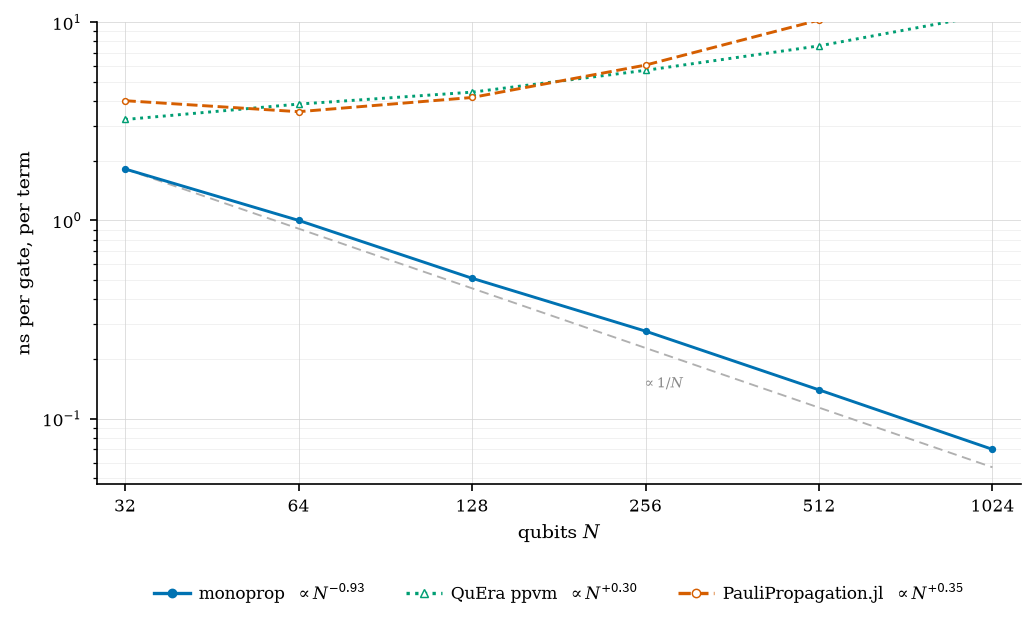
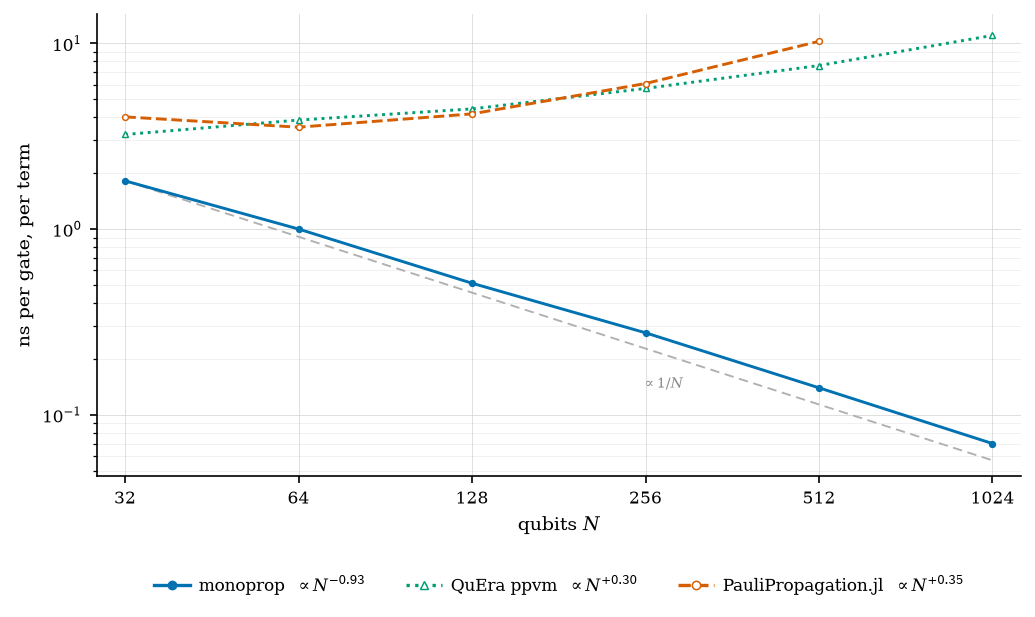
fix(paper_plots): 🐛 size the Fig. 6 y axis from the data
The fixed 10 ns ceiling cut off ppvm's N=1024 and PauliPropagation.jl's
N=512 points. The top is now 1.3x the highest point, capped at 20 ns.

Assisted-by: claude-code:claude-opus-5-5

diff --git a/paper_plots/make_inverse_scaling_figure.py b/paper_plots/make_inverse_scaling_figure.py
@@ -145,12 +145,12 @@ FIT_NMAX = 512
 # it, so no drawn point goes unaccounted for.
 FIT_ALL_POINTS = False
 
-# Hard ceiling on the y axis, in ns per gate per term. Letting the data set the top means
-# PauliPropagation.jl's post-cliff point at ~112 ns stretches the axis to 3.8 decades and
-# squashes the decade the 1/N actually lives in. Cropping here keeps that decade legible;
-# the reference engine's line simply runs off the top, and the caption carries the value it
-# reaches. Every point is still FITTED -- this crops the view, never the fit.
-Y_TOP_NS = 10.0
+# The y axis tops out Y_HEADROOM above the highest point, but never above Y_TOP_NS (ns per
+# gate per term): a post-cliff point such as PauliPropagation.jl's ~112 ns on AWS would
+# stretch the axis to 3.8 decades and squash the decade the 1/N lives in. A point above the
+# cap runs off the top and the caption carries its value. This crops the view, never the fit.
+Y_TOP_NS = 20.0
+Y_HEADROOM = 1.3
 
 
 # Colour carries the engine here (see the module docstring). Okabe-Ito, CVD-safe,
@@ -600,17 +600,17 @@ def fig6(lattice, outdir: Path, layout: str = "column", *, preview=False):
 
         _log_axis(ax, xs, "qubits $N$", "ns per gate, per term")
         ax.set_xlim(xs[0] / 1.12, xs[-1] * 1.12)
-        # Floor from the data, ceiling fixed at Y_TOP_NS (see the constant), so the
-        # reference engine's post-cliff point sits above the crop and its line runs off the
-        # top. The bottom pad is set by the legend, not by taste: it sits inside the
-        # lower-left corner in the column layout, and monoprop's tail descends into that
-        # corner, so the floor has to drop far enough to leave the entries clear of it.
+        # Ceiling from the data, capped at Y_TOP_NS (see the constant). The bottom pad is
+        # set by the legend, not by taste: it sits inside the lower-left corner in the column
+        # layout, and monoprop's tail descends into that corner, so the floor has to drop far
+        # enough to leave the entries clear of it.
         lo = min(min(ys) for _, ys, _ in fits.values())
         # Each extra legend entry in the column layout lowers the floor.
         pad = spec["bottom_pad"] ** (
             len(fits) / len(ORDER) if layout == "column" else 1
         )
-        ax.set_ylim(lo / pad, Y_TOP_NS)
+        hi = max(max(ys) for _, ys, _ in fits.values())
+        ax.set_ylim(lo / pad, min(hi * Y_HEADROOM, Y_TOP_NS))
 
         handles = [
             Line2D(

diff --git a/paper_plots/README.md b/paper_plots/README.md
@@ -368,8 +368,8 @@ hours, and seven layers carry more than five times the terms. `check_grid` there
 demands an identical grid inside the fit window, and lets an engine stop early only above
 it, where points are drawn but never fitted. Fitted over every point each engine reached
 instead, nothing changes at two decimals (monoprop `N^-0.80` and ppvm `N^+0.39` over
-32…1024). Nothing reaches the 10 ns `Y_TOP_NS` crop at seven layers, so no line runs off
-the panel. The legend carries each series' fitted exponent beside its name, from the same
+32…1024). The y axis tops out 1.3× above the highest point, capped at the 20 ns `Y_TOP_NS`;
+nothing reaches the cap at seven layers, so no line runs off the panel. The legend carries each series' fitted exponent beside its name, from the same
 fits as `figures/fig6_caption.txt` and the build's stdout, so the three cannot disagree.
 
 At N=1024 monoprop leads ppvm by **92×**; at N=512, the widest point all three reached, it
